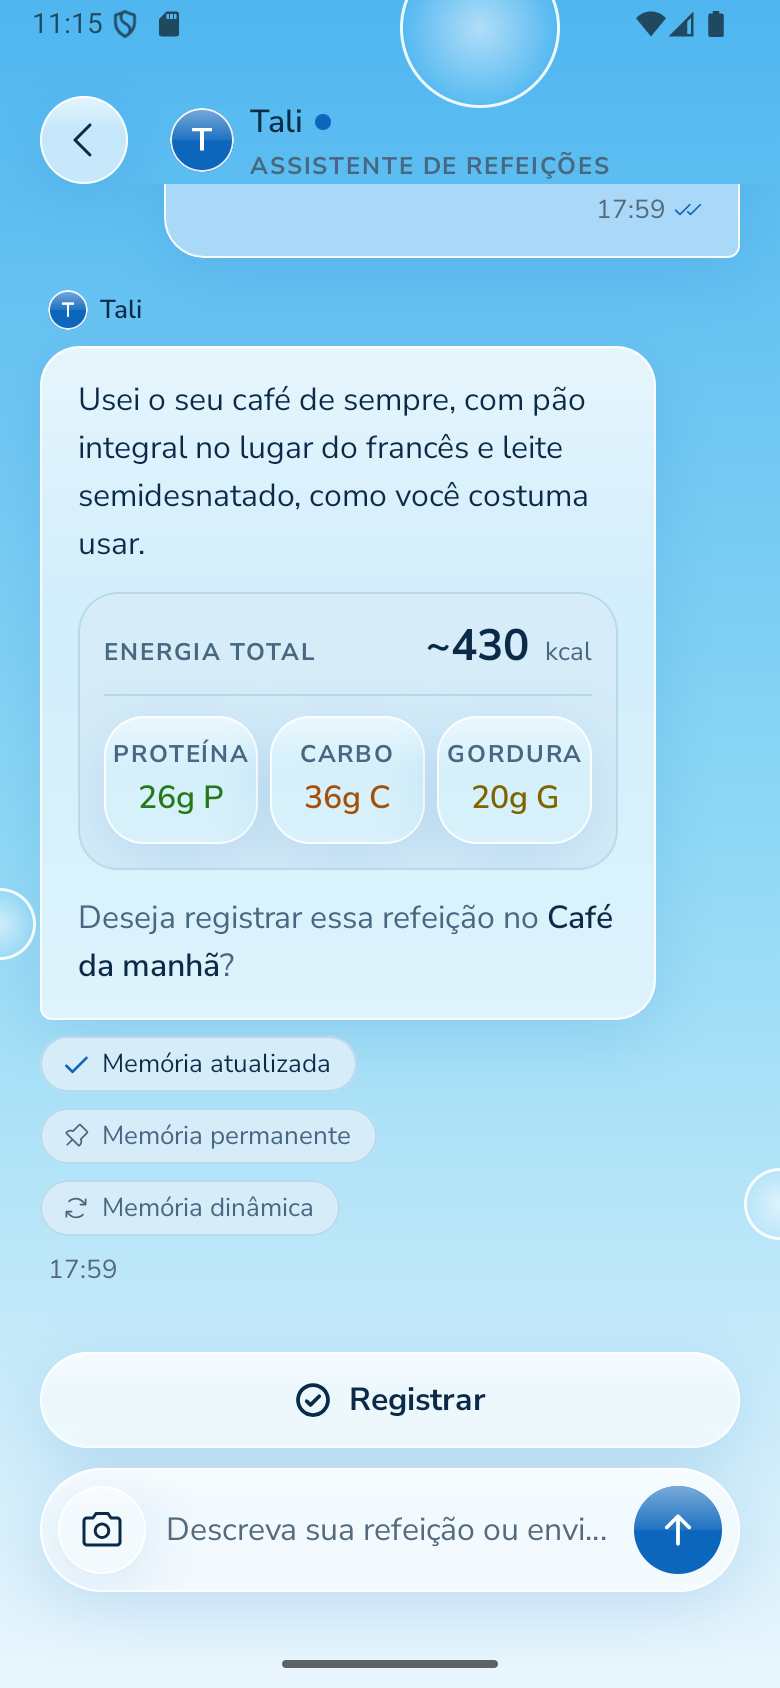
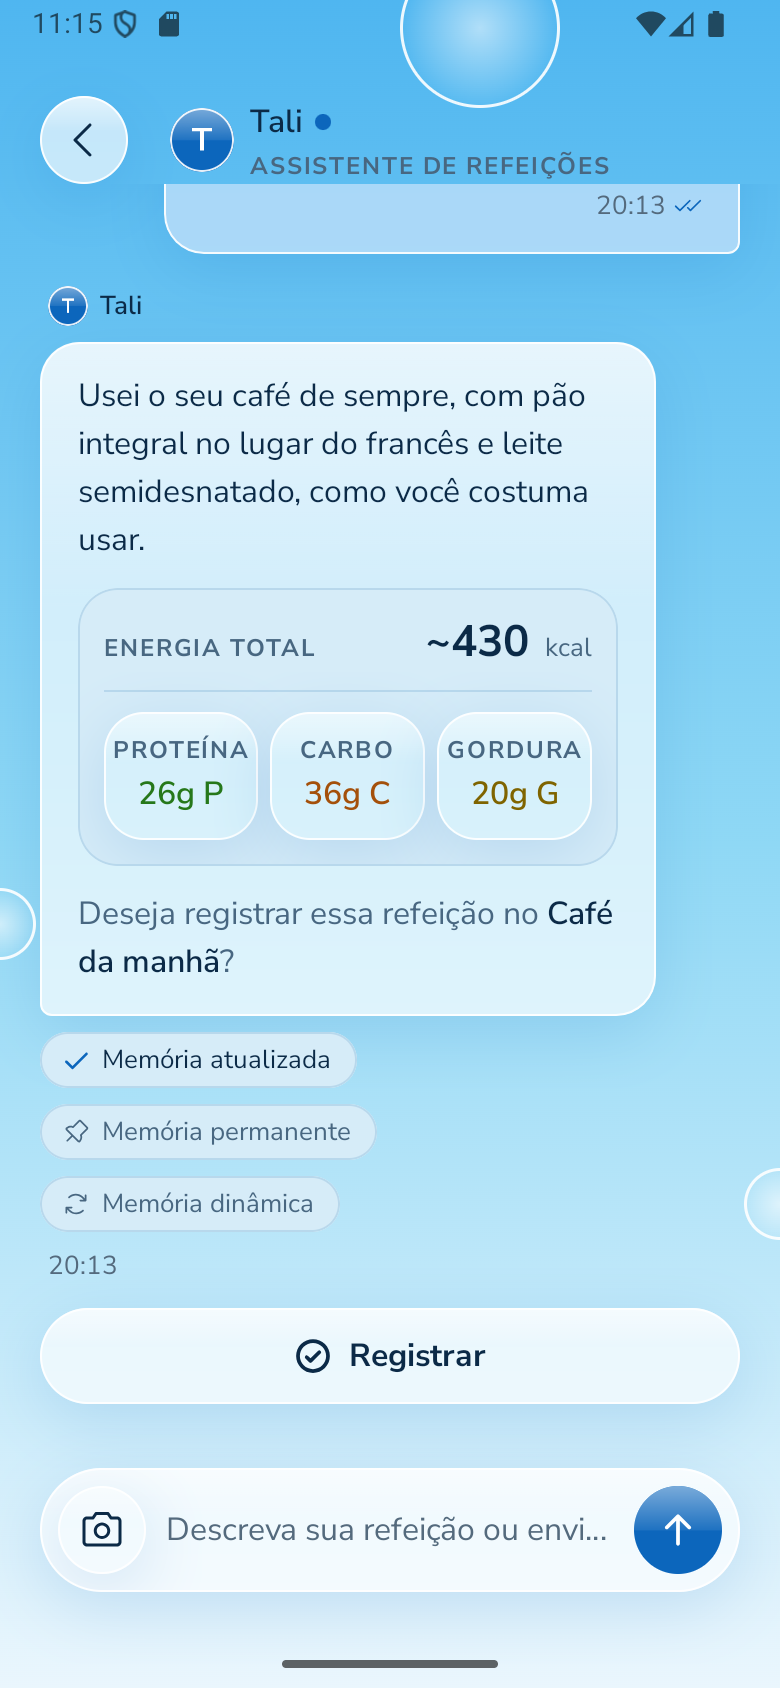
test(android): A62 gates chatM whole against the D22 gold
GoldTest drops the chatM region exception (CHAT_M_BOXES, CHAT_M_ACTION,
reportOnly) and renders at the new 927 dp frame height. Fresh emulator
captures of chatM in both themes pass diff-gold (header 0.00 %, tail
0.02 % Dark / 0.23 % Light). Plan A62 closed.

diff --git a/apps/android/app/src/test/java/app/fibrai/android/ui/GoldTest.kt b/apps/android/app/src/test/java/app/fibrai/android/ui/GoldTest.kt
@@ -256,11 +256,11 @@ class GoldTest {
     fun chatR_light() = check("chatR", dark = false) { Chat(ChatFixtures.chatR) }
 
     /** A29: Memória atualizada and the origin chips. */
-    @Test @Config(sdk = [34], qualifiers = "w390dp-h925dp-xhdpi")
-    fun chatM_dark() = check("chatM", dark = true, reportOnly = true, regions = CHAT_M_BOXES, reportRegions = CHAT_M_ACTION) { Chat(ChatFixtures.chatM) }
+    @Test @Config(sdk = [34], qualifiers = "w390dp-h927dp-xhdpi")
+    fun chatM_dark() = check("chatM", dark = true) { Chat(ChatFixtures.chatM) }
 
-    @Test @Config(sdk = [34], qualifiers = "w390dp-h925dp-xhdpi")
-    fun chatM_light() = check("chatM", dark = false, reportOnly = true, regions = CHAT_M_BOXES, reportRegions = CHAT_M_ACTION) { Chat(ChatFixtures.chatM) }
+    @Test @Config(sdk = [34], qualifiers = "w390dp-h927dp-xhdpi")
+    fun chatM_light() = check("chatM", dark = false) { Chat(ChatFixtures.chatM) }
 
     /** A29: the routine suggestion on an empty day. */
     @Test @Config(sdk = [34], qualifiers = "w390dp-h844dp-xhdpi")
@@ -625,13 +625,6 @@ class GoldTest {
          * assim, each at its best offset.
          */
         private val CHAT_RK_BOXES = listOf(intArrayOf(0, 0, 780, 1370), intArrayOf(0, 1450, 780, 2054))
-
-        /**
-         * chatM (A29) was not redrawn by D20: its Registrar still sits above the composer, where A61 (ADR-048) draws it
-         * 12 dp under the answer. Gated: the header and the thread down to the time; the action zone is reported.
-         */
-        private val CHAT_M_BOXES = listOf(intArrayOf(0, 0, 780, 1500))
-        private val CHAT_M_ACTION = listOf(intArrayOf(0, 1500, 780, 1690))
 
         private val CHAT_F_BOXES = listOf(intArrayOf(0, 0, 780, 228), intArrayOf(0, 470, 780, 1922))
 

diff --git a/docs/android/plans/completed/a62-chatm-gold-gate.md b/docs/android/plans/completed/a62-chatm-gold-gate.md
@@ -1,0 +1,72 @@
+# Plan — A62 `chatM` gated whole
+
+- Status: Concluído (aprovado e implementado 07/10/2026)
+- Date: 07/10/2026
+- Owning context: `android`
+- Executable boundary: `apps/android/app/src/test/` (`GoldTest`) and the capture `docs/qa/android/current/{dark,light}/chatM.png`. No production code, no server, no Room. `tools/capture-chat.sh` and `tools/diff-gold.mjs` only if the capture shows a rule that no longer fits.
+- Related documentation: [ADR-048](../../../produto/adrs/ADR-048-chat-actions-in-thread-copy-scroll-capture.md), [product Chat](../../../produto/specifications/chat.md), [QA](../../../qa/README.md).
+- Prerequisites:
+  - [D22](../../../design/plans/completed/d22-chatm-action-in-thread.md) `Concluído`: the `chatM` gold draws Registrar in the thread (780 × 1854, 927 dp);
+  - [A61](../pending_manual_validation/a61-chat-copy-scroll-capture-inline-actions.md) merged (it is); no parallel Android plan.
+
+Authorization and delivery follow [SDD](../../../sdd/README.md). Approval: `Aprovo o plano docs/android/plans/a62-chatm-gold-gate.md. Implemente o plano aprovado.`
+
+## Objective
+
+Since A61, `chatM` was checked only on the header and the thread, and its action zone was only reported. The gold was stale: it drew Registrar above the composer. D22 redrew it with Registrar in the thread. This plan removes that exception, so `chatM` is gated as a whole frame like the other Chat golds, and refreshes its emulator capture.
+
+## Scope
+
+1. **`GoldTest`:**
+   - `chatM_dark` and `chatM_light` drop `reportOnly`, `CHAT_M_BOXES` and `CHAT_M_ACTION`, and the comment about D20;
+   - the qualifier follows the new frame height, `h925dp` → `h927dp`;
+   - the gate is the default one: a blurred diff of the whole frame ≤ 2 %. After the D22 export the render measured Dark 0.44 % and Light 1.51 %.
+2. **Emulator** (partial validation, `chatM` only, both themes):
+   - capture through the existing scene: `node tools/fake-chat-server.mjs`, the devDebug APK with `-PAPI_PUBLIC_URL=http://10.0.2.2:8765`, then `SCENES=v2 tools/capture-chat.sh dark|light`;
+   - `node tools/diff-gold.mjs` keeps the long-thread rules of `chatM` (header box and tail);
+   - write a diff list with the remaining differences.
+
+## Out of scope
+
+- Any Compose change: A61 already draws the frame.
+- Other golds, and the Light `text/dim` contrast ([D21](../../../design/plans/d21-light-text-dim-contrast.md)).
+- A dev build: the APK does not change.
+
+## Validation
+
+1. `testDevDebugUnitTest` passes, with `GoldTest.chatM_*` gated (not report-only). Run it with `--rerun`, because the gold PNG is not a Gradle input.
+2. `verifyRoborazziDevDebug` passes.
+3. The `chatM` emulator captures exist in both themes, and `tools/diff-gold.mjs` passes on them.
+4. `node tools/check-docs.mjs` passes.
+
+## Results
+
+Implemented on 07/10/2026.
+
+**`GoldTest`:**
+- `chatM_dark` and `chatM_light` now run the default check, so the whole frame is gated: `reportOnly`, `CHAT_M_BOXES`, `CHAT_M_ACTION` and their comment are gone;
+- the qualifier is `w390dp-h927dp-xhdpi`, the height of the D22 frame.
+
+**Validation:**
+1. `testDevDebugUnitTest --rerun` passes (exit 0). The `chatM` render against the D22 gold measured a blurred diff of 0.44 % (Dark) and 1.51 % (Light) when D22 was exported (≤ 2 %).
+2. `verifyRoborazziDevDebug` passes on the second run. On the first run, `ChatCopyTest.longPressSelects_tapsToggle_andTheLastRemovalEnds` (A61) timed out once.
+   - It is a race in the A61 production code, outside this plan's boundary: `ChatViewModel.toggleSelected` builds the next selection from the rendered `uiState`, not from the local state, so two taps in a row before a render can lose the first one.
+   - It was handed to its own task for a separate plan.
+3. Emulator (Medium_Phone API 36, 780 × 1688, density 320; devDebug APK against `tools/fake-chat-server.mjs`):
+   - `SCENES=v2 tools/capture-chat.sh dark|light` passes every check in both themes, including `chips in order`;
+   - only `chatM.png` is kept from the run; the other captures of the scene went back to their committed bytes;
+   - `node tools/diff-gold.mjs dark/chatM light/chatM`:
+
+     | Gate | Dark | Light |
+     |---|---|---|
+     | Header region | 0.00 % | 0.00 % |
+     | Thread tail down to the composer | 0.02 % | 0.23 % |
+
+     The whole screen is reported only, as the long-thread rule says (13.01 % Dark, 32.41 % Light). The phone shows 844 dp of a 927 dp frame, so the thread is cropped at the top.
+   - Diff list against the gold:
+     - layout: Registrar sits in the thread under the time, with the composer alone at the bottom, as in the gold;
+     - tokens, type size, radius, CTA and semantic macro colours: same;
+     - ignored: the status bar, the gesture bar, the clock (the seeded time is the capture time, so `20:13`/`20:07` instead of `20:15`) and the top of the long thread that the phone does not show.
+4. `node tools/check-docs.mjs` passes.
+
+No production code changed, and no dev build was needed.

diff --git a/docs/android/plans/pending_manual_validation/a61-chat-copy-scroll-capture-inline-actions.md b/docs/android/plans/pending_manual_validation/a61-chat-copy-scroll-capture-inline-actions.md
@@ -108,7 +108,7 @@ Implemented 07/10/2026 on `feat/a61-chat-copy-scroll-inline`, parts C → A → 
   - `chatRK` is gated by two regions (0.23–0.30 %): the app fits "finalize" on one line where the Figma text wraps it (font raster), so the rest of the bubble shifts down one line;
   - `cfgS` 0.00 %, so the report-only exception is gone;
   - O1–O4 0.00–0.10 %.
-- **`chatM` gold out of date:** it was not in D20 and still draws Registrar above the composer. It is gated on the header and the thread, and the action zone is reported. Redrawn by the design plan [D22](../../../design/plans/completed/d22-chatm-action-in-thread.md) (owner decision); the gate moves in [A62](../a62-chatm-gold-gate.md).
+- **`chatM` gold out of date:** it was not in D20 and still draws Registrar above the composer. It is gated on the header and the thread, and the action zone is reported. Redrawn by the design plan [D22](../../../design/plans/completed/d22-chatm-action-in-thread.md) (owner decision); [A62](../completed/a62-chatm-gold-gate.md) gates it whole.
 - **Roborazzi:** baselines refreshed (the old Chat baselines still showed "Chat Dieta Bot", passing only under the 1 % threshold). New baselines: `chatRB`, `chatRK`, `chatRL`, `chatCP`, `chatCC`.
 - **`ChatInThreadUiTest`:**
   - the stack sits 12 dp under the answer, Reservar 10 dp under Registrar assim;

diff --git a/docs/android/README.md b/docs/android/README.md
@@ -119,7 +119,6 @@ Histórico em `docs/decisions/`: [002](../decisions/002-android-client.md), [004
 - [A59 — Skips next to other actions in the Chat](plans/pending_manual_validation/a59-skips-with-other-actions.md): part E of A60, restored from `cancelled/` by owner decision (07/10/2026).
 - [A60 — Budget choice, tone and closures, rich replies, planned meal and skips](plans/pending_manual_validation/a60-tone-formatting-planned-skips.md): parts A–D delivered, awaiting the owner's device acceptance.
 - [A61 — Chat actions in the thread, copying messages, scrolling screenshot](plans/pending_manual_validation/a61-chat-copy-scroll-capture-inline-actions.md): parts A–C delivered, awaiting the owner's device acceptance.
-- [A62 — `chatM` gated whole](plans/a62-chatm-gold-gate.md): after D22; awaiting approval.
 - Cancelados (decisão do dono, 07/10/2026, um plano por contexto): A50, A55, A57, A58 em [`plans/cancelled/`](plans/cancelled/).
 - Fora de escopo: [A35 Registro retroativo](plans/out_of_scope/a35-registro-retroativo.md), [A56 Goal weight and date in the profile](plans/out_of_scope/a56-goal-weight.md).
 - Histórico: [`plans/completed/`](plans/completed/).

diff --git a/docs/design/plans/README.md b/docs/design/plans/README.md
@@ -119,7 +119,7 @@ Behavior: [ADR-048](../../produto/adrs/ADR-048-chat-actions-in-thread-copy-scrol
 | Design | D20 — stale frames, Chat actions in the thread, copying messages (`chatCP`, `chatCC`), delivered ([history](completed/)) | D12, D16–D19, A60 merged |
 | Client | [A61](../../android/plans/pending_manual_validation/a61-chat-copy-scroll-capture-inline-actions.md) — actions in the thread, copying messages, scrolling screenshot | D20 (parts A and B) |
 | Design | D22 — `chatM` with Registrar in the thread (missed by D20), delivered ([history](completed/)) | D20, A61 merged |
-| Client | [A62](../../android/plans/a62-chatm-gold-gate.md) — `chatM` gated whole in `GoldTest` and captured on the emulator | D22 |
+| Client | A62 — `chatM` gated whole in `GoldTest` and captured on the emulator, delivered ([history](../../android/plans/completed/)) | D22 |
 
 ## Text contrast follow-up
 

diff --git a/docs/design/plans/completed/d22-chatm-action-in-thread.md b/docs/design/plans/completed/d22-chatm-action-in-thread.md
@@ -130,6 +130,6 @@ Figma MCP budget: 5 of 12 calls (whoami, 2 skill reads, 1 read, 1 write).
   | Old action zone | 0.00 % | 0.00 % |
 
   `chatT` scores 0.00 % in both themes.
-- **Hand-over:** [A62](../../../android/plans/a62-chatm-gold-gate.md) removes the `GoldTest` exception (`CHAT_M_BOXES`, `CHAT_M_ACTION`, `reportOnly`), moves the qualifier to 927 dp and adds the emulator capture of `chatM`.
+- **Hand-over:** [A62](../../../android/plans/completed/a62-chatm-gold-gate.md) removes the `GoldTest` exception (`CHAT_M_BOXES`, `CHAT_M_ACTION`, `reportOnly`), moves the qualifier to 927 dp and adds the emulator capture of `chatM`.
 
 Figma MCP budget: 5 of 12 calls in total.
